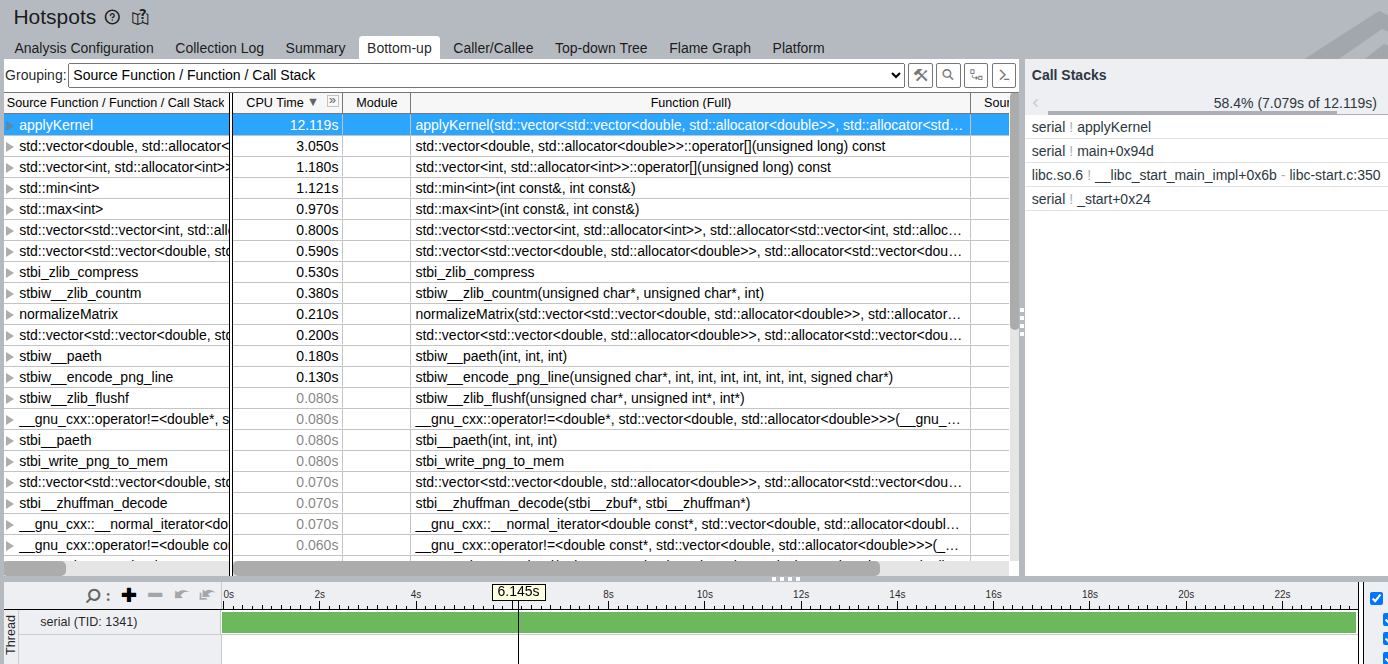
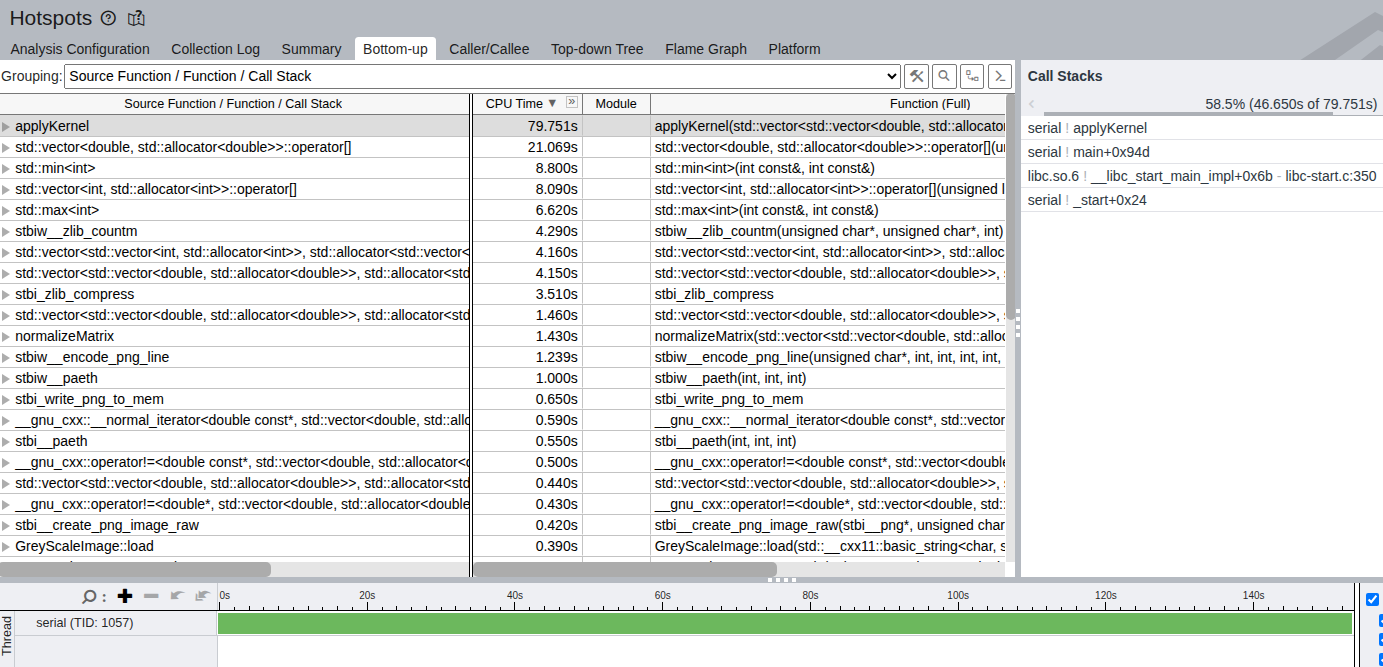
Replaced old profilling with a new one for a bigger image

Changed region(s): [[0.0, 0.0, 1.0, 1.0], [0.8706, 0.1506, 1.0, 0.1807]]

diff --git a/serial/serial.cpp b/serial/serial.cpp
@@ -18,7 +18,7 @@ int main() {
     auto start = high_resolution_clock::now();
 
     //load input image
-    GreyScaleImage img("../images/image.png");
+    GreyScaleImage img("../images/upscaled_upscaled_image.png");
 
     // convert loaded image to a double matrix
     const auto &inputMat = img.getMatrix();
